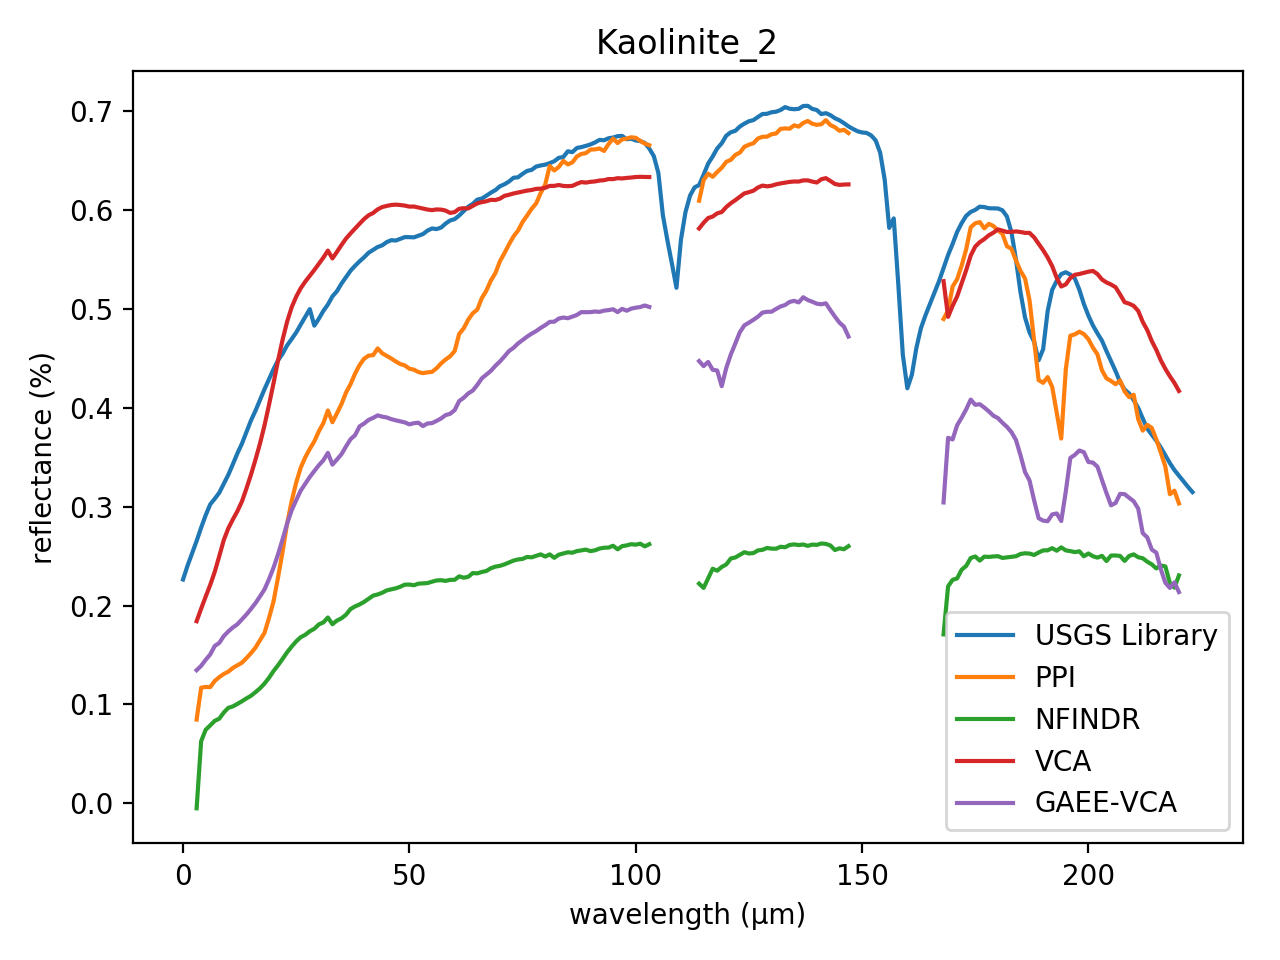
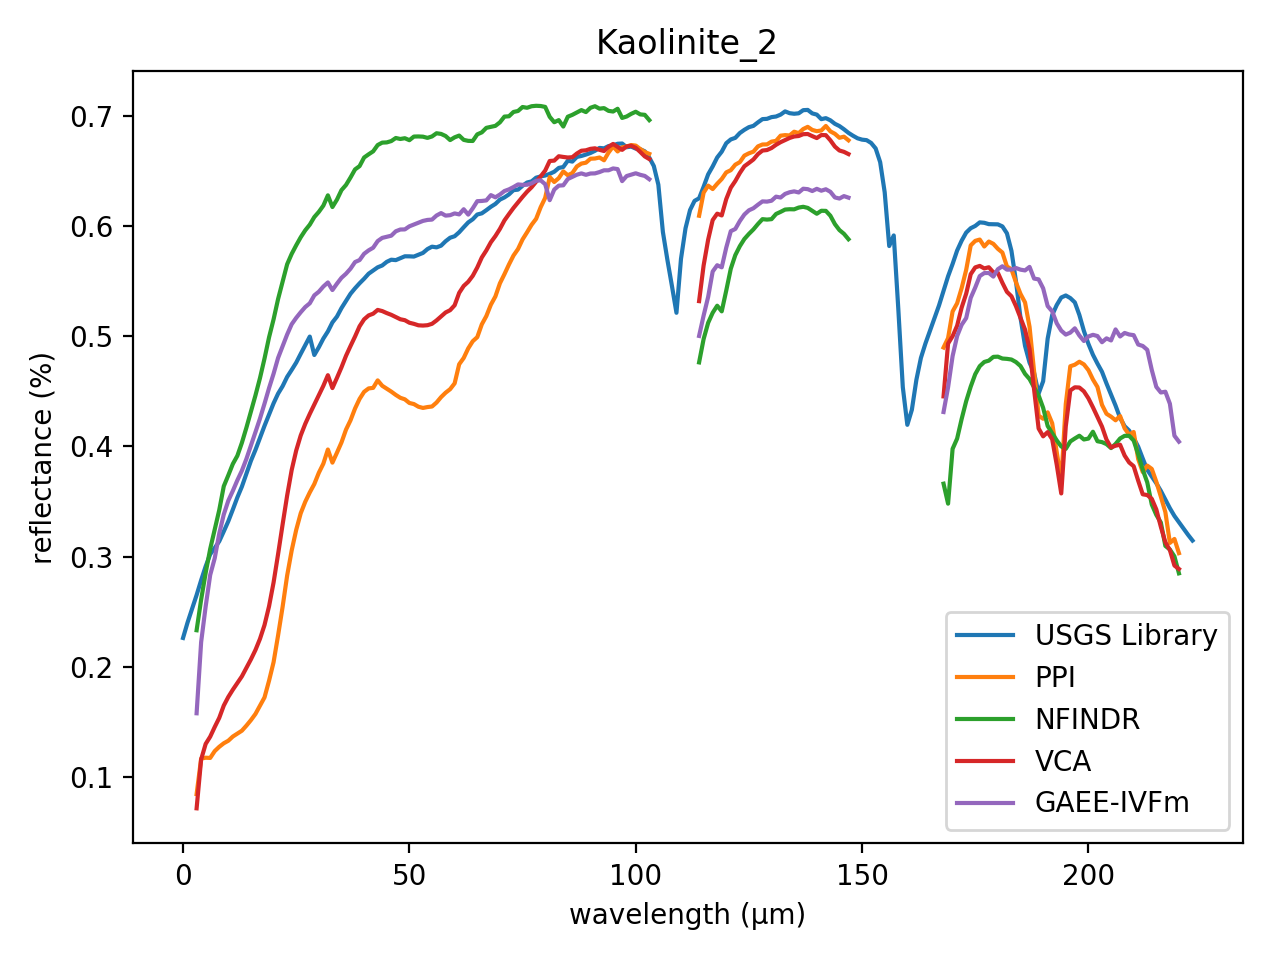
Final Results

diff --git a/README.md b/README.md
@@ -6,7 +6,7 @@ Endmember Extraction is a critical step in hyperspectral image analysis and clas
 
 **Envirionment Setup:**
 
-Monte Carlo runs: 10 
+Monte Carlo runs: 50 
 
 Number of endmembers to estimate: 12 
 
@@ -18,10 +18,10 @@ Maximum number of iterations (N-FINDR): 36
 
 | Parameters            |   GAEE |   GAEE-IVFm |   GAEE-VCA |   GAEE-IVFm-VCA |
 |:----------------------|-------:|------------:|-----------:|----------------:|
-| Population Size       |  100   |      100    |      100   |           100   |
-| Number of Generations |  250   |      250    |      250   |           250   |
-| Crossover Probability |    0.7 |        1    |        0.7 |             0.7 |
-| Mutation Probability  |    0.1 |        0.05 |        0.3 |             0.3 |
+| Population Size       |  100   |       100   |     100    |           100   |
+| Number of Generations | 1000   |      1000   |    1000    |          1000   |
+| Crossover Probability |    1   |         0.7 |       0.5  |             1   |
+| Mutation Probability  |    0.1 |         0.3 |       0.05 |             0.1 |
 
 ![alt text](./IMAGES/Convergence.png)
 
@@ -29,55 +29,55 @@ Maximum number of iterations (N-FINDR): 36
 
 | Endmembers       |    PPI |   NFINDR |    VCA |   GAEE |   GAEE-IVFm |   GAEE-VCA |   GAEE-IVFm-VCA |
 |:-----------------|-------:|---------:|-------:|-------:|------------:|-----------:|----------------:|
-| Alunite          | 0.3744 |   0.1075 | 0.1016 | 0.1112 |      0.1112 |     **0.0926** |          **0.0926** |
-| Andradite        | 0.0758 |   0.0911 | 0.0778 | **0.0609** |      0.0796 |     0.0863 |          0.0917 |
-| Buddingtonite    | 0.2081 |   **0.0762** | 0.0824 | 0.0937 |      0.0798 |     **0.0762** |          **0.0762** |
-| Dumortierite     | 0.1907 |   0.0706 | **0.0702** | 0.0894 |      0.0835 |     0.0706 |          0.0706 |
-| Kaolinite_1      | **0.0795** |   0.0870 | 0.0862 | 0.1140 |      0.0875 |     0.1014 |          0.1196 |
-| Kaolinite_2      | 0.0820 |   0.0992 | 0.0811 | 0.0628 |      0.0813 |     0.0737 |          **0.0606** |
-| Muscovite        | 0.2506 |   0.1587 | 0.1084 | 0.1531 |      **0.1009** |     0.1788 |          0.1548 |
-| Montmonrillonite | 0.1338 |   0.0677 | 0.0698 | 0.0664 |      0.0664 |     **0.0619** |          **0.0619** |
-| Nontronite       | 0.1033 |   0.0806 | **0.0722** | 0.0758 |      0.0823 |     0.0795 |          0.1011 |
-| Pyrope           | 0.0579 |   0.0767 | 0.1729 | 0.0535 |      0.1028 |     **0.0509** |          0.0579 |
-| Sphene           | 0.0673 |   **0.0654** | 0.0834 | 0.0814 |      0.0687 |     0.0826 |          0.0927 |
-| Chalcedony       | 0.0871 |   0.0948 | 0.0761 | 0.0774 |      **0.0623** |     0.0752 |          0.0752 |
+| Alunite          | 0.3744 |   0.1122 | **0.0939** | 0.1122 |      0.1034 |     0.1043 |          0.1043 |
+| Andradite        | 0.0758 |   0.2068 | 0.1034 | **0.0693** |      0.0760 |     0.1694 |          0.1694 |
+| Buddingtonite    | 0.2081 |   0.1205 | 0.0786 | 0.0798 |      **0.0762** |     **0.0762** |          **0.0762** |
+| Dumortierite     | 0.1907 |   0.0706 | **0.0702** | 0.0735 |      0.0719 |     0.0755 |          0.0755 |
+| Kaolinite_1      | **0.0795** |   0.0870 | 0.0862 | 0.0952 |      0.0935 |     0.0870 |          0.0870 |
+| Kaolinite_2      | 0.0820 |   0.0992 | 0.0741 | **0.0649** |      0.0723 |     0.0744 |          0.0782 |
+| Muscovite        | 0.2506 |   0.0961 | 0.1805 | **0.0861** |      0.1091 |     0.0965 |          0.0961 |
+| Montmonrillonite | 0.1338 |   **0.0646** | 0.0651 | 0.0671 |      0.0677 |     0.0688 |          0.0650 |
+| Nontronite       | 0.1033 |   0.0780 | 0.0801 | **0.0711** |      0.0791 |     0.1150 |          0.1150 |
+| Pyrope           | 0.0579 |   0.0865 | 0.0818 | **0.0563** |      0.0623 |     0.0793 |          0.0686 |
+| Sphene           | 0.0673 |   0.0542 | **0.0530** | 0.1121 |      0.0946 |     0.0795 |          0.0901 |
+| Chalcedony       | 0.0871 |   **0.0731** | 0.0773 | 0.0738 |      0.0756 |     0.0765 |          0.0861 |
 
 ### SAM Statistics for Cuprite Dataset. 
 
-| Statistics   |      PPI |   NFINDR |    VCA |    GAEE |   GAEE-IVFm |   GAEE-VCA |   GAEE-IVFm-VCA |
-|:-------------|---------:|---------:|-------:|--------:|------------:|-----------:|----------------:|
-| _Mean_       |   0.1425 |   0.1012 | 0.0996 |  0.1022 |      0.1004 |     **0.0966** |          0.1005 |
-| _Std_        |   **0.0000** |   0.0227 | 0.0243 |  0.0256 |      0.0223 |     0.0148 |          0.0170 |
-| _p-value_    | -15.9309 |  -0.4281 | 0.0000 | -0.7551 |     **-0.2328** |     0.8653 |         -0.2714 |
-| Gain         |  32.2290 |   4.5119 | 3.0062 |  5.4635 |      3.8298 |     **0.0000** |          3.8609 |
-| _Time_       |   2.2118 |   8.4757 | **0.5226** |  2.4932 |      5.7155 |     2.5397 |          5.7591 |
+| Statistics   |      PPI |   NFINDR |    VCA |   GAEE |   GAEE-IVFm |   GAEE-VCA |   GAEE-IVFm-VCA |
+|:-------------|---------:|---------:|-------:|-------:|------------:|-----------:|----------------:|
+| _Mean_       |   0.1425 |   0.1033 | 0.1024 | 0.1016 |      **0.0989** |     0.1109 |          0.1090 |
+| _Std_        |   **0.0000** |   0.0225 | 0.0252 | 0.0248 |      0.0255 |     0.0117 |          0.0157 |
+| _p-value_    | -34.8557 |  **-0.6562** | 0.0000 | 0.5032 |      2.3017 |    -6.4153 |         -4.8551 |
+| Gain         |  30.6303 |   4.2790 | 3.3962 | 2.6854 |      **0.0000** |    10.8064 |          9.2929 |
+| _Time_       |   2.1929 |   7.8318 | **0.5106** | 8.9232 |     22.3329 |     8.7494 |         22.1761 |
 
 ### Comparison between the ground-truth Laboratory Reflectances and extracted endmembers using PPI, N-FINDR, VCA, GAEE, GAEE-IVFm using SID for the Cuprite Dataset.
 
 | Endmembers       |    PPI |   NFINDR |    VCA |   GAEE |   GAEE-IVFm |   GAEE-VCA |   GAEE-IVFm-VCA |
 |:-----------------|-------:|---------:|-------:|-------:|------------:|-----------:|----------------:|
-| Alunite          | **0.0000** |   **0.0000** | 0.0133 | **0.0000** |      **0.0000** |     **0.0000** |          **0.0000** |
-| Andradite        | **0.0000** |   0.0092 | 0.0071 | 0.0071 |      **0.0000** |     0.0082 |          0.0090 |
-| Buddingtonite    | 0.0477 |   0.0211 | 0.0080 | 0.0193 |      0.0219 |     **0.0072** |          **0.0072** |
-| Dumortierite     | 0.0562 |   0.0071 | **0.0069** | 0.0077 |      0.0125 |     0.0071 |          0.0071 |
-| Kaolinite_1      | 0.0114 |   0.0131 | **0.0089** | 0.0133 |      0.0132 |     0.0166 |          0.0177 |
-| Kaolinite_2      | 0.0114 |   0.0082 | 0.0076 | 0.0055 |      **0.0032** |     0.0101 |          0.0052 |
-| Muscovite        | 0.0969 |   0.0267 | 0.0148 | 0.0284 |      **0.0113** |     0.0317 |          0.0317 |
-| Montmonrillonite | 0.0230 |   **0.0049** | 0.0059 | 0.0051 |      0.0052 |     **0.0049** |          **0.0049** |
-| Nontronite       | 0.0126 |   0.0083 | **0.0071** | 0.0088 |      0.0095 |     0.0119 |          0.0119 |
-| Pyrope           | 0.0071 |   0.0625 | 0.0419 | **0.0061** |      0.0108 |     0.0438 |          0.0389 |
-| Sphene           | **0.0076** |   0.0943 | 0.0096 | 0.0383 |      0.0408 |     0.0090 |          0.0104 |
-| Chalcedony       | 0.0088 |   0.0104 | 0.0069 | **0.0042** |      0.0051 |     0.0067 |          0.0067 |
+| Alunite          | **0.0000** |   **0.0000** | 0.0105 | 0.0170 |      **0.0000** |     **0.0000** |          0.0145 |
+| Andradite        | **0.0000** |   0.0117 | 0.0052 | 0.0055 |      0.0092 |     0.0077 |          0.0056 |
+| Buddingtonite    | 0.0477 |   0.0196 | 0.0077 | 0.0076 |      0.0108 |     **0.0072** |          **0.0072** |
+| Dumortierite     | 0.0562 |   **0.0071** | 0.0298 | 0.0072 |      0.0181 |     0.0077 |          0.0077 |
+| Kaolinite_1      | 0.0114 |   **0.0104** | 0.0139 | 0.0139 |      0.0128 |     0.0131 |          0.0131 |
+| Kaolinite_2      | 0.0114 |   0.0058 | 0.0042 | 0.0049 |      **0.0029** |     0.0111 |          0.0086 |
+| Muscovite        | 0.0969 |   0.0317 | 0.0148 | **0.0086** |      0.0286 |     0.0285 |          0.0171 |
+| Montmonrillonite | 0.0230 |   0.0053 | **0.0047** | 0.0052 |      0.0048 |     0.0057 |          0.0060 |
+| Nontronite       | 0.0126 |   0.0083 | 0.0093 | **0.0065** |      0.0082 |     0.0155 |          0.0155 |
+| Pyrope           | 0.0071 |   0.0438 | 0.0229 | **0.0057** |      0.0279 |     0.0593 |          0.0593 |
+| Sphene           | 0.0076 |   0.0912 | 0.0096 | 0.0165 |      0.0086 |     0.0099 |          **0.0067** |
+| Chalcedony       | 0.0088 |   0.0093 | **0.0069** | **0.0069** |      0.0096 |     0.0070 |          0.0070 |
 
 ### SID Statistics for Cuprite Dataset. 
 
-| Statistics   |     PPI |   NFINDR |     VCA |   GAEE |   GAEE-IVFm |   GAEE-VCA |   GAEE-IVFm-VCA |
-|:-------------|--------:|---------:|--------:|-------:|------------:|-----------:|----------------:|
-| _Mean_       |  0.0236 |   0.0258 |  0.0161 | **0.0148** |      0.0166 |     0.0163 |          0.0205 |
-| _Std_        |  **0.0000** |   0.0056 |  0.0099 | 0.0071 |      0.0082 |     0.0060 |          0.0079 |
-| _p-value_    | -4.6358 |  -5.6933 |  0.0000 | 0.7856 |     -0.2904 |    **-0.0764** |         -1.7339 |
-| Gain         | 28.3124 |  **-1.0066** | -2.5993 | 0.0000 |     -1.7281 |    -5.7792 |         -1.6952 |
-| _Time_       |  2.2118 |   8.4757 |  **0.5226** | 2.4932 |      5.7155 |     2.5397 |          5.7591 |
+| Statistics   |     PPI |   NFINDR |    VCA |   GAEE |   GAEE-IVFm |   GAEE-VCA |   GAEE-IVFm-VCA |
+|:-------------|--------:|---------:|-------:|-------:|------------:|-----------:|----------------:|
+| _Mean_       |  0.0236 |   0.0257 | 0.0197 | **0.0163** |      0.0194 |     0.0265 |          0.0268 |
+| _Std_        |  **0.0000** |   0.0064 | 0.0107 | 0.0099 |      0.0097 |     0.0065 |          0.0059 |
+| _p-value_    | **-5.2271** |  -7.2962 | 0.0000 | 3.8716 |      0.3603 |    -7.4272 |         -8.2866 |
+| Gain         | 28.7161 |   1.6376 | 0.7304 | 0.0000 |     **-2.7595** |     8.3452 |          6.7899 |
+| _Time_       |  2.1929 |   7.8318 | **0.5106** | 8.9232 |     22.3329 |     8.7494 |         22.1761 |
 
 ![alt text](./IMAGES/Alunite_Endmember.png)
 
